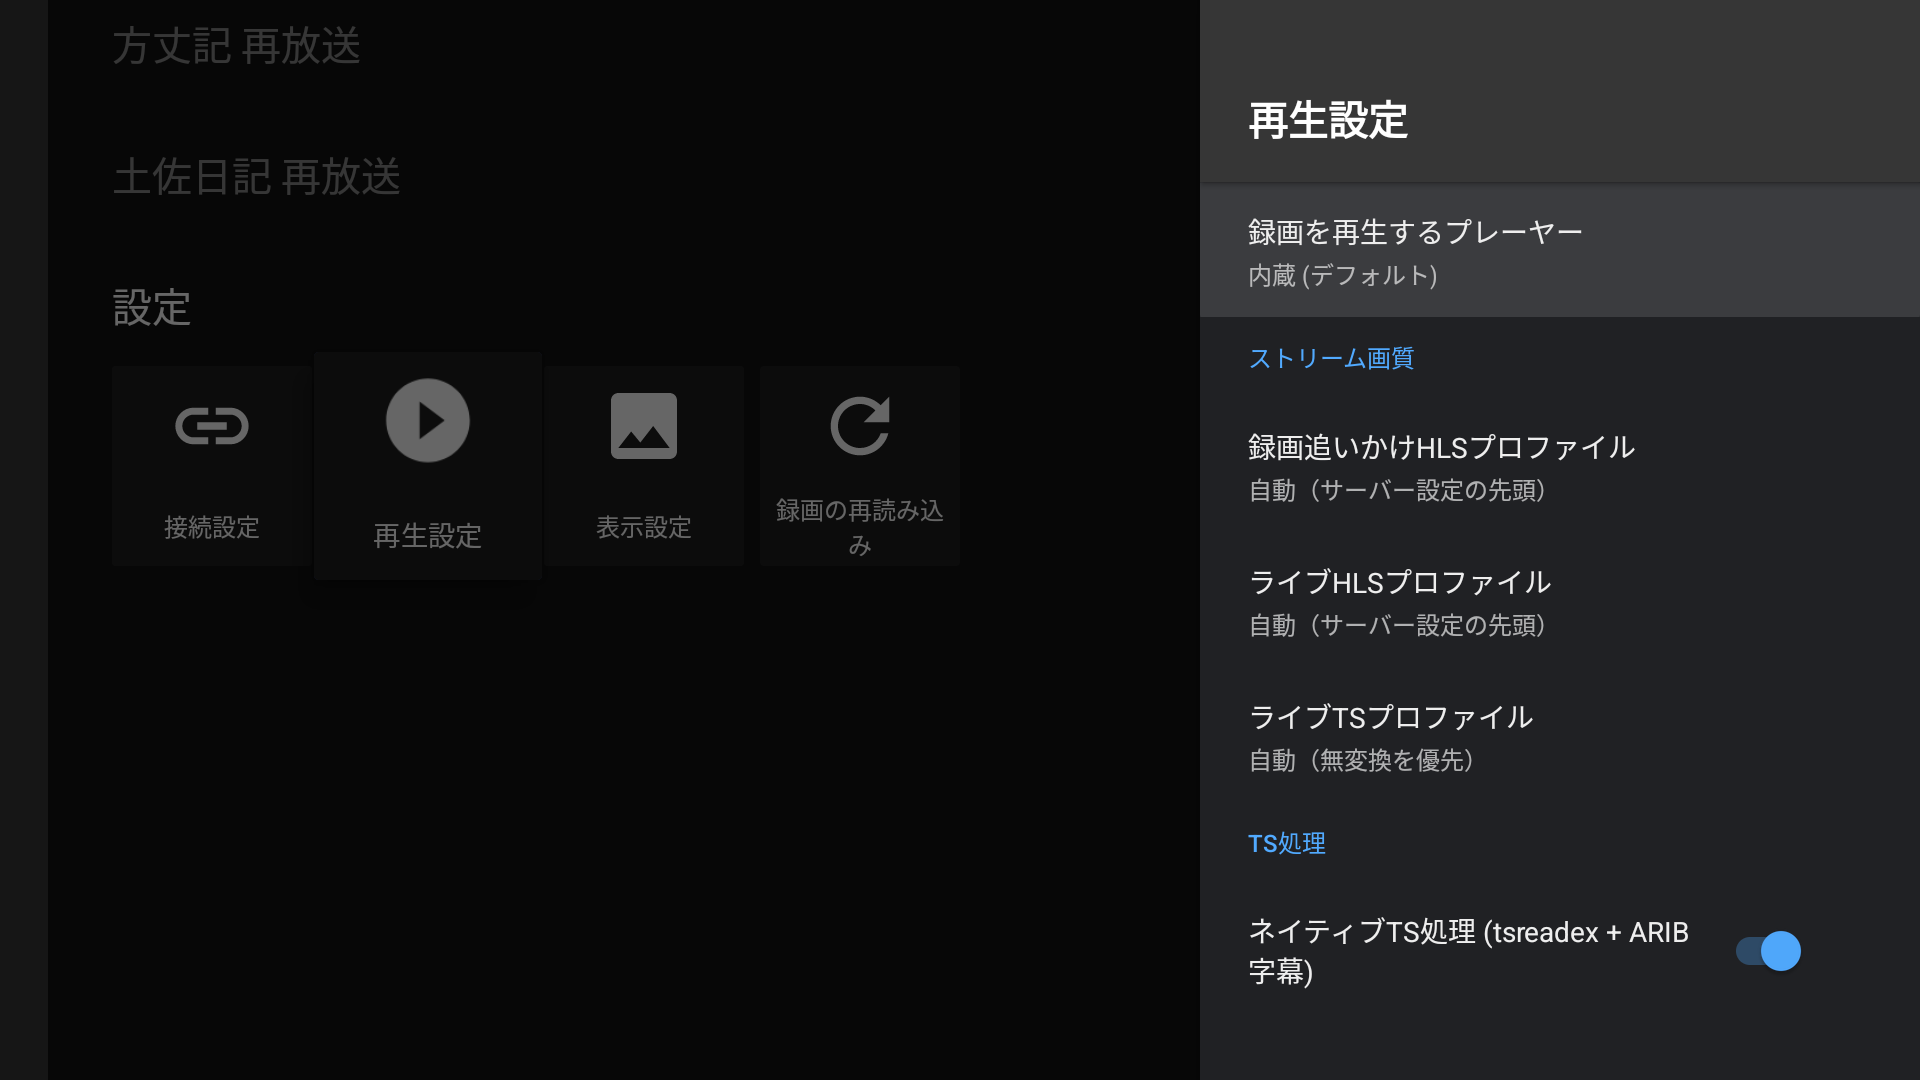
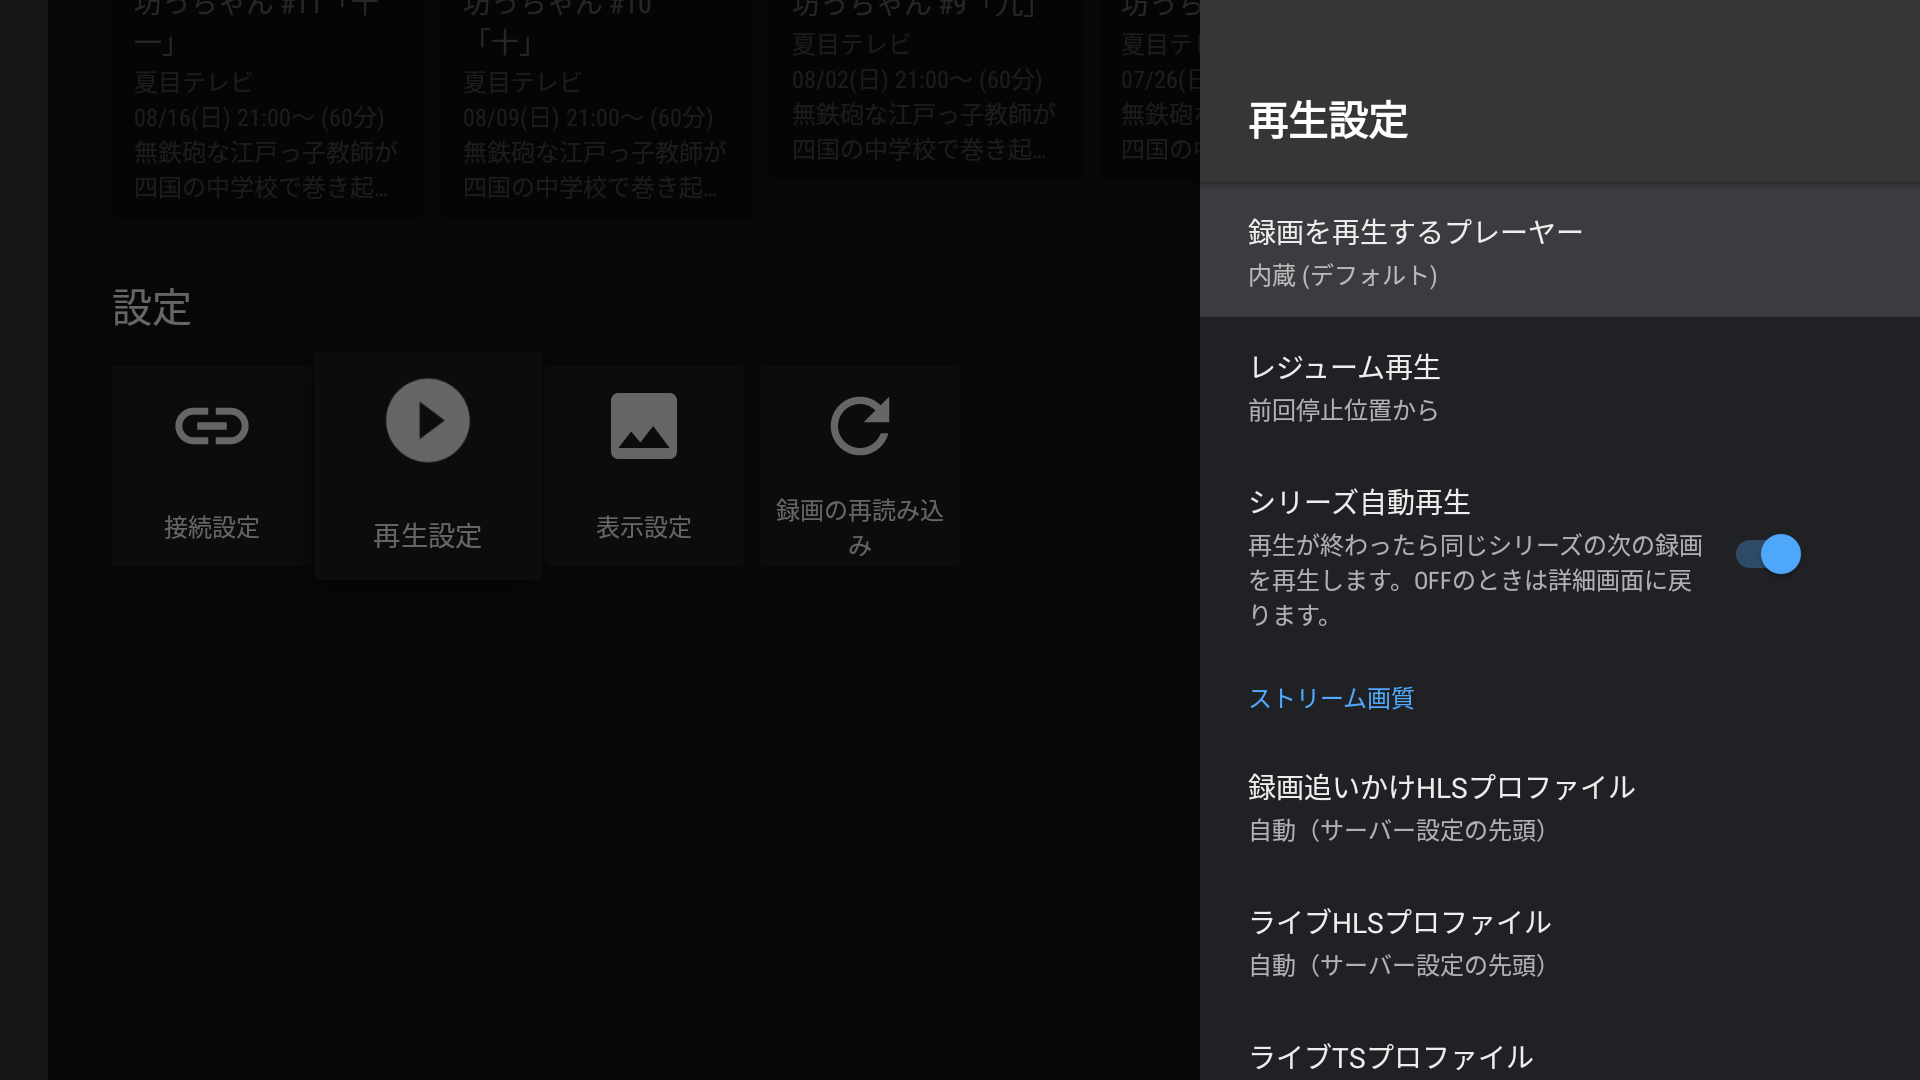
マニュアルを v1.36 の内容に更新する
シリーズの連続再生・エピソード一覧・再生速度・再生コントロールの自動非表示など、
v1.35 以降に入った機能を書き足す。あわせて実態と合わなくなっていた記述
(シリーズ一覧の表示条件と並び順、同じルールの録画の見出し、文字スーパーのボタン)
を直し、再生画面と再生設定のスクリーンショットを撮り直した。

diff --git a/WIP.md b/WIP.md
@@ -1,0 +1,28 @@
+# WIP: マニュアルを v1.36 の内容に更新する
+
+## 目的
+
+v1.35 以降に入った機能（PR #64, #67, #70, #71, #72, #73, #74, #75, #77, #79）のうち、
+MANUAL.md に反映されていないものを書き足す。仕様の網羅ではなく、機能の概要が
+つかめる読みやすさを優先する。画面を紹介する箇所にはスクリーンショットを入れる。
+
+## 完了済み
+
+- 差分の洗い出し（前回タグ v1.35 からの全 PR を確認）
+- スクリーンショットの撮り直し（モックEPGStationに接続して撮影）
+  - `screenshots/playback-screen.png` — 新しいボタン列・キャプション・エピソード一覧
+  - `screenshots/settings-playback.png` — シリーズ自動再生を含む再生設定
+- MANUAL.md の改訂（3.3 / 4章 / 5.2）
+
+## 残タスク
+
+- ユーザーによる内容確認
+- 確認が取れたら WIP.md を削除してコミットし、PR を作成する
+
+## 重要な決定事項
+
+- スクリーンショットは必ずモックEPGStation（`mock-epgstation/`）に接続して撮る。
+  実サーバーの画面は著作権の都合でリポジトリに入れない。
+- 撮影のために変更した端末の接続設定は撮影後に元へ戻す（192.168.11.33:8888）。
+- リリースノート（`release-notes/v1.36.md`）と `app/build.gradle` のバージョン更新は
+  このブランチではコミットしない。リリースフローに従い master へ直接コミットする。
